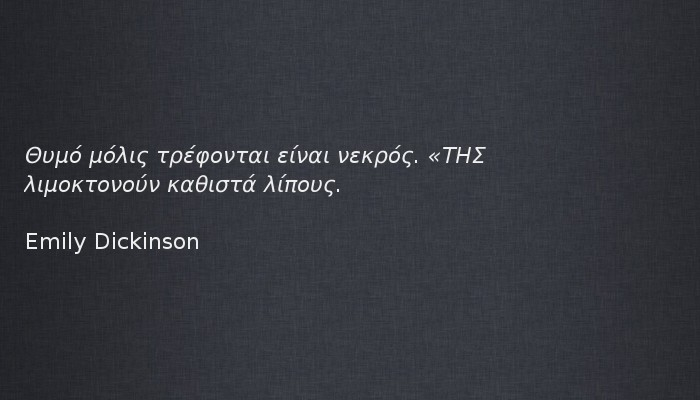
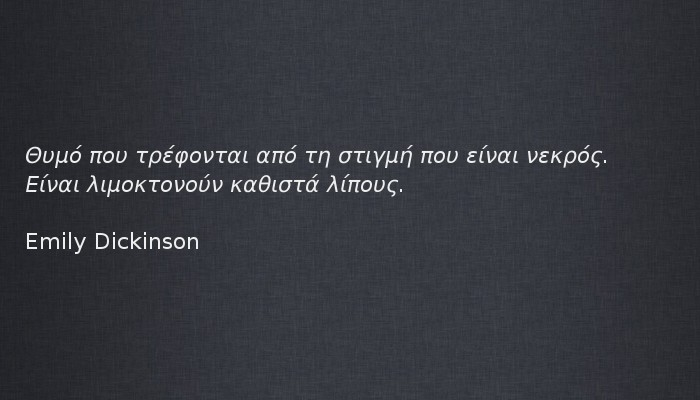
Improved translation a bit.

Changed region(s): [[0.03, 0.36, 0.87, 0.48]]

diff --git a/translate-en-el.py b/translate-en-el.py
@@ -3,6 +3,7 @@
 import json
 import requests # pip install requests
 import urllib
+import re
 
 # For getting your ClientID and ClientSecret, see: http://blogs.msdn.com/b/translation/p/gettingstarted1.aspx
 clientID = 'tmpCliendId909090' # your client id here
@@ -12,11 +13,25 @@ outLanguage = "el"
 inFilename = "quotes.en.txt"
 outFilename = "quotes.el.txt"
 delimiter = ".NONEXISTINGWORD."
+
 #==============================================================================
 # translateText()
 #==============================================================================
 def translateText(text):
     print "Translating buffer..."
+
+    # Helping Bing translation a bit...
+    text = text.replace("'cause", "because")
+    text = text.replace("'em", "them")
+    text = text.replace("'tis", "it is")
+    text = text.replace("'Tis", "It is")
+    # Add space after "..."
+    # (Explanation: match "..." followed by any letter. The ( ) used will store
+    # in variable \1 anything that matches the pattern within the parentheses.
+    # Then, replace this matched pattern with "..." followed by a
+    # space followed by the contents of variable \1.
+    text = re.sub(r'\.\.\.([a-zA-Z])', '... \\1', text)
+    text = re.sub(r'([a-zA-Z])\.\.\.', '\\1 ...', text)
 
     # Source: http://stackoverflow.com/a/12149985
     args = {
@@ -33,25 +48,32 @@ def translateText(text):
         'from': inLanguage,
         'to': outLanguage
     }
+
     translation_args['text'] = text
     result = requests.get(translation_url + urllib.urlencode(translation_args),
                           headers = headers)
-    text = result.content
+    trans_text = result.content
 
     # Remove the first 4 bytes, <feff>, defining the Byte Order Marker
-    text = text[3:]
+    trans_text = trans_text[3:]
 
     # Remove the trailing and leading quotes added by Bing
-    text = text[1:-1]
+    trans_text = trans_text[1:-1]
 
     # Symbol ";" is translated by Bing into "?", instead of the greek semi-colon
-    text = text.replace("?", "·")
+    trans_text = trans_text.replace("?", "·")
 
-    # Replace word "ό, τι" with "ό,τι"
-    text = text.replace(" ό, τι ", " ό,τι ")
-    text = text.replace("Ό, τι ", "Ό,τι ")
+    # Replace remove unnecessary space from word "ό, τι"
+    trans_text = trans_text.replace(" ό, τι ", " ό,τι ")
+    trans_text = trans_text.replace("Ό, τι ", "Ό,τι ")
 
-    return text
+    # Replace more than one space with a single space
+    text = re.sub(r' +', ' ', text)
+
+    # Bing often inserts a "\/" instead of "/"
+    trans_text = trans_text.replace("\\/", "/")
+
+    return trans_text
 
 #==============================================================================
 # main()
@@ -71,7 +93,7 @@ def main():
             if (len(quote) > 1):
                 text = quote[0].strip()
                 author = quote[1].strip()
-                # Separate different quotes by '#'
+                # Separate different quotes by delimiter
                 text_buffer = text_buffer + text + ' ' + delimiter + ' '
 
                 # If buffer is long enough, translate it and add it to the
